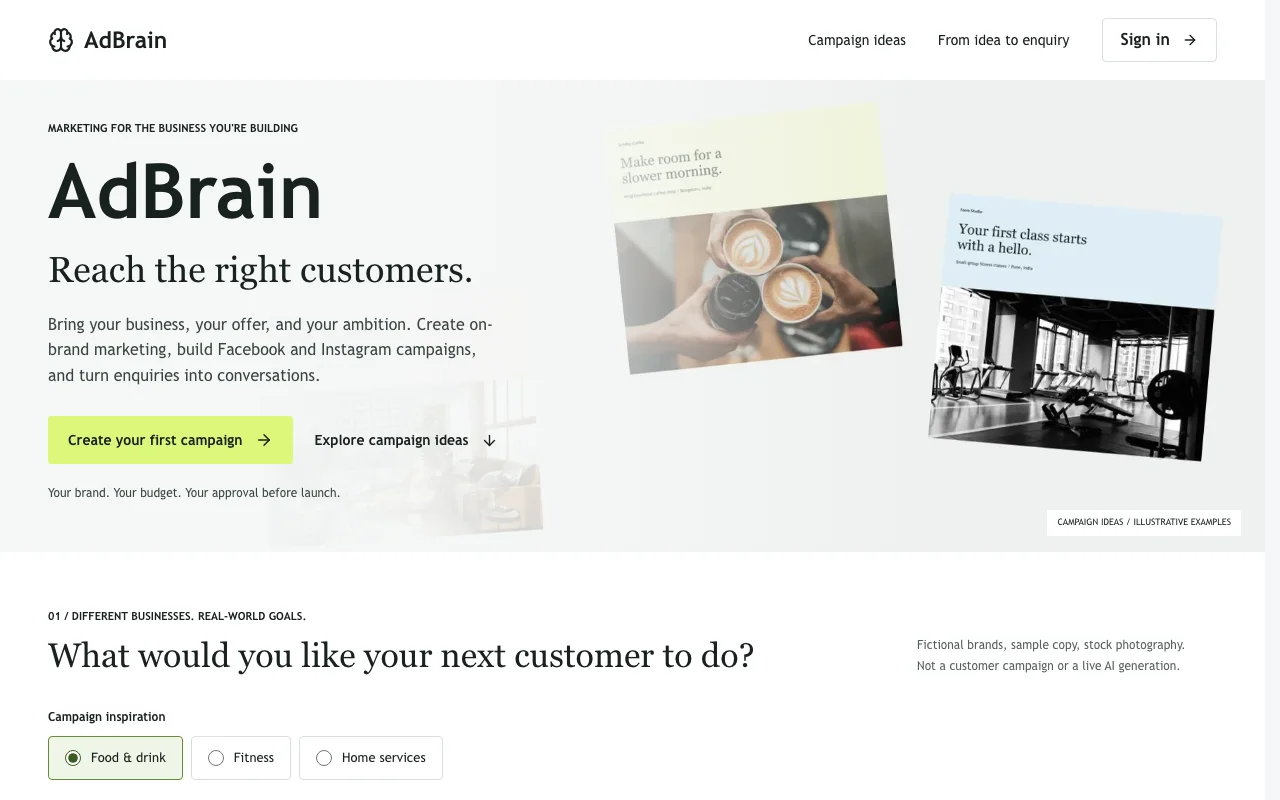
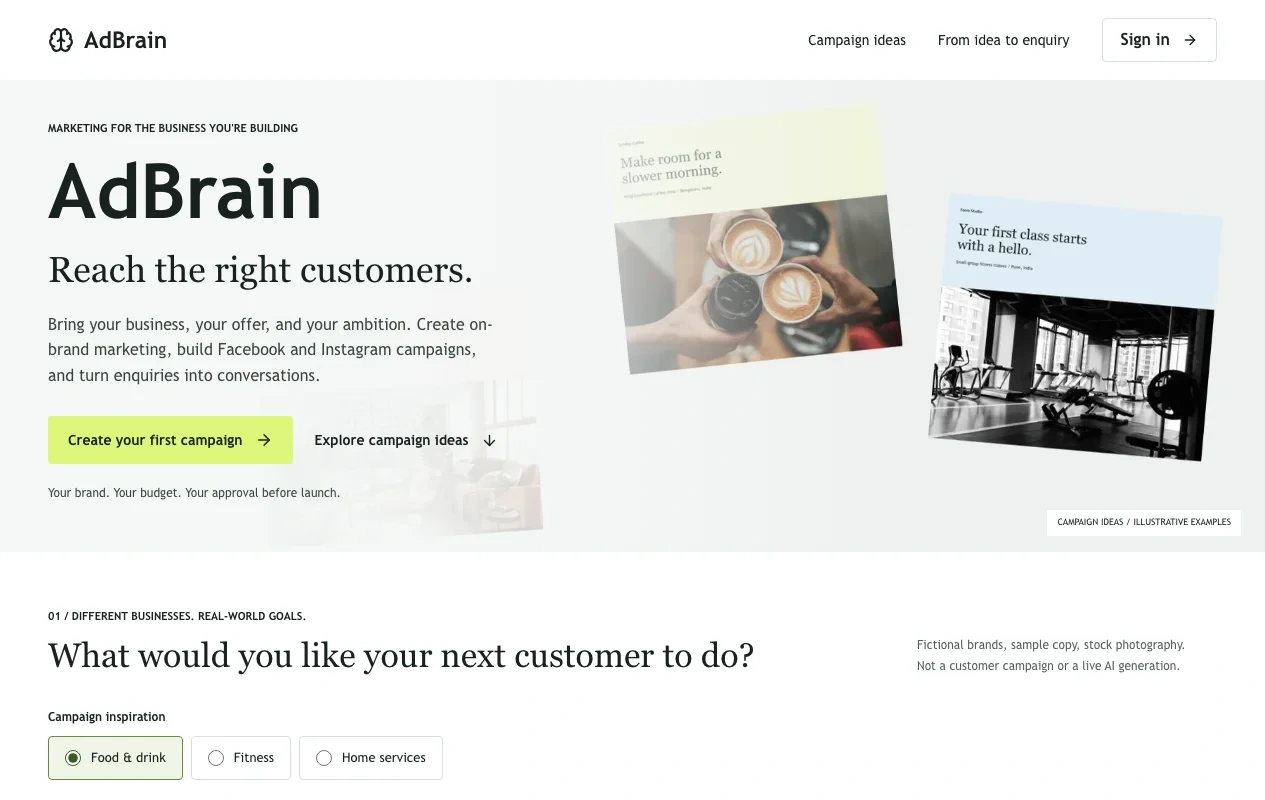
Fix featured image corners and remove screenshot gutter

diff --git a/src/components/Projects/Projects.jsx b/src/components/Projects/Projects.jsx
@@ -91,6 +91,7 @@ const ProjectCard = styled(motion.div)`
 
 const ProjectImageWrapper = styled.div`
   aspect-ratio: 8 / 5;
+  border-radius: 8px;
   overflow: hidden;
   background: var(--color-bg-secondary);
   position: relative;
@@ -420,7 +421,7 @@ const projects = [
     title: 'AdBrain',
     role: 'Founder & Solo Developer',
     description: 'An AI ad-creative generator and manager for local businesses — fill a "brand brain", set a goal, and get on-brand ad variants (image + copy) ready to launch on Meta. Built as a real product, with a live solar business as customer zero.',
-    image: '/images/projects/adbrain.webp?v=99a19eb',
+    image: '/images/projects/adbrain.webp?v=edge-to-edge-20260916',
     brandIcon: <AdBrainMark />,
     fallbackIcon: <AdBrainMark />,
     stats: [

diff --git a/src/components/Projects/Projects.test.jsx b/src/components/Projects/Projects.test.jsx
@@ -24,7 +24,7 @@ describe('Projects', () => {
     expect(mark).toHaveAttribute('alt', '');
     expect(mark).toHaveAttribute('width', '28');
     expect(mark).toHaveAttribute('height', '28');
-    expect(screen.getByRole('img', { name: 'AdBrain', exact: true })).toHaveAttribute('src', '/images/projects/adbrain.webp?v=99a19eb');
+    expect(screen.getByRole('img', { name: 'AdBrain', exact: true })).toHaveAttribute('src', '/images/projects/adbrain.webp?v=edge-to-edge-20260916');
   });
 
   it('provides a case study for each featured project and keeps the directory secondary', () => {
